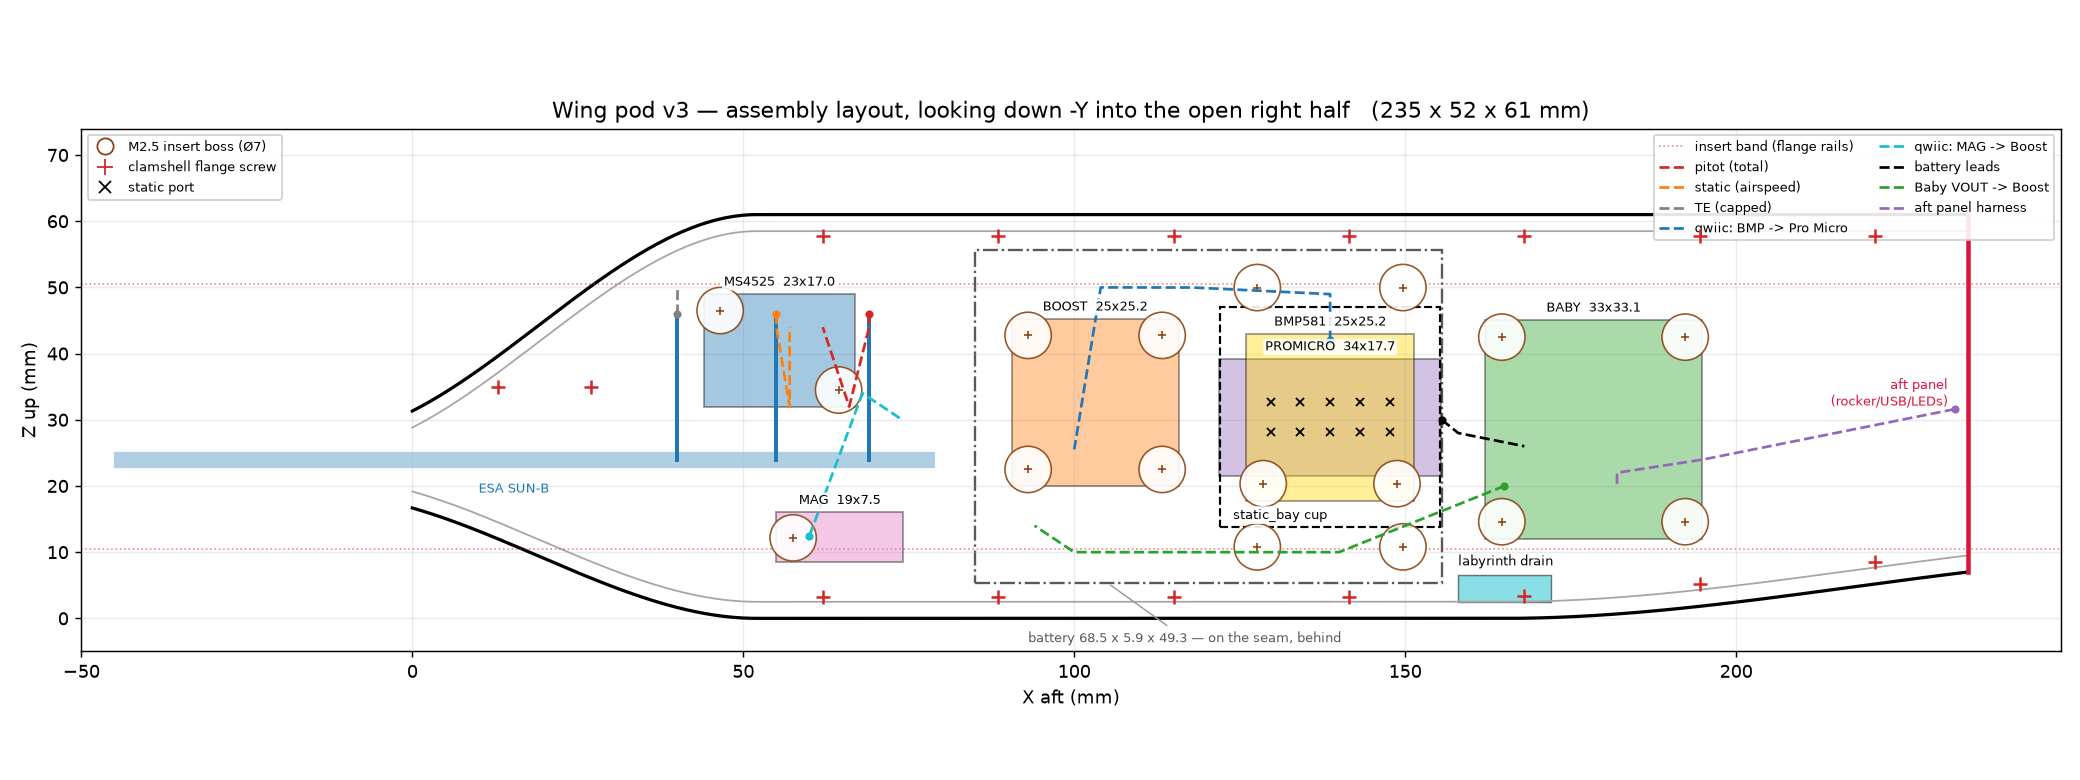
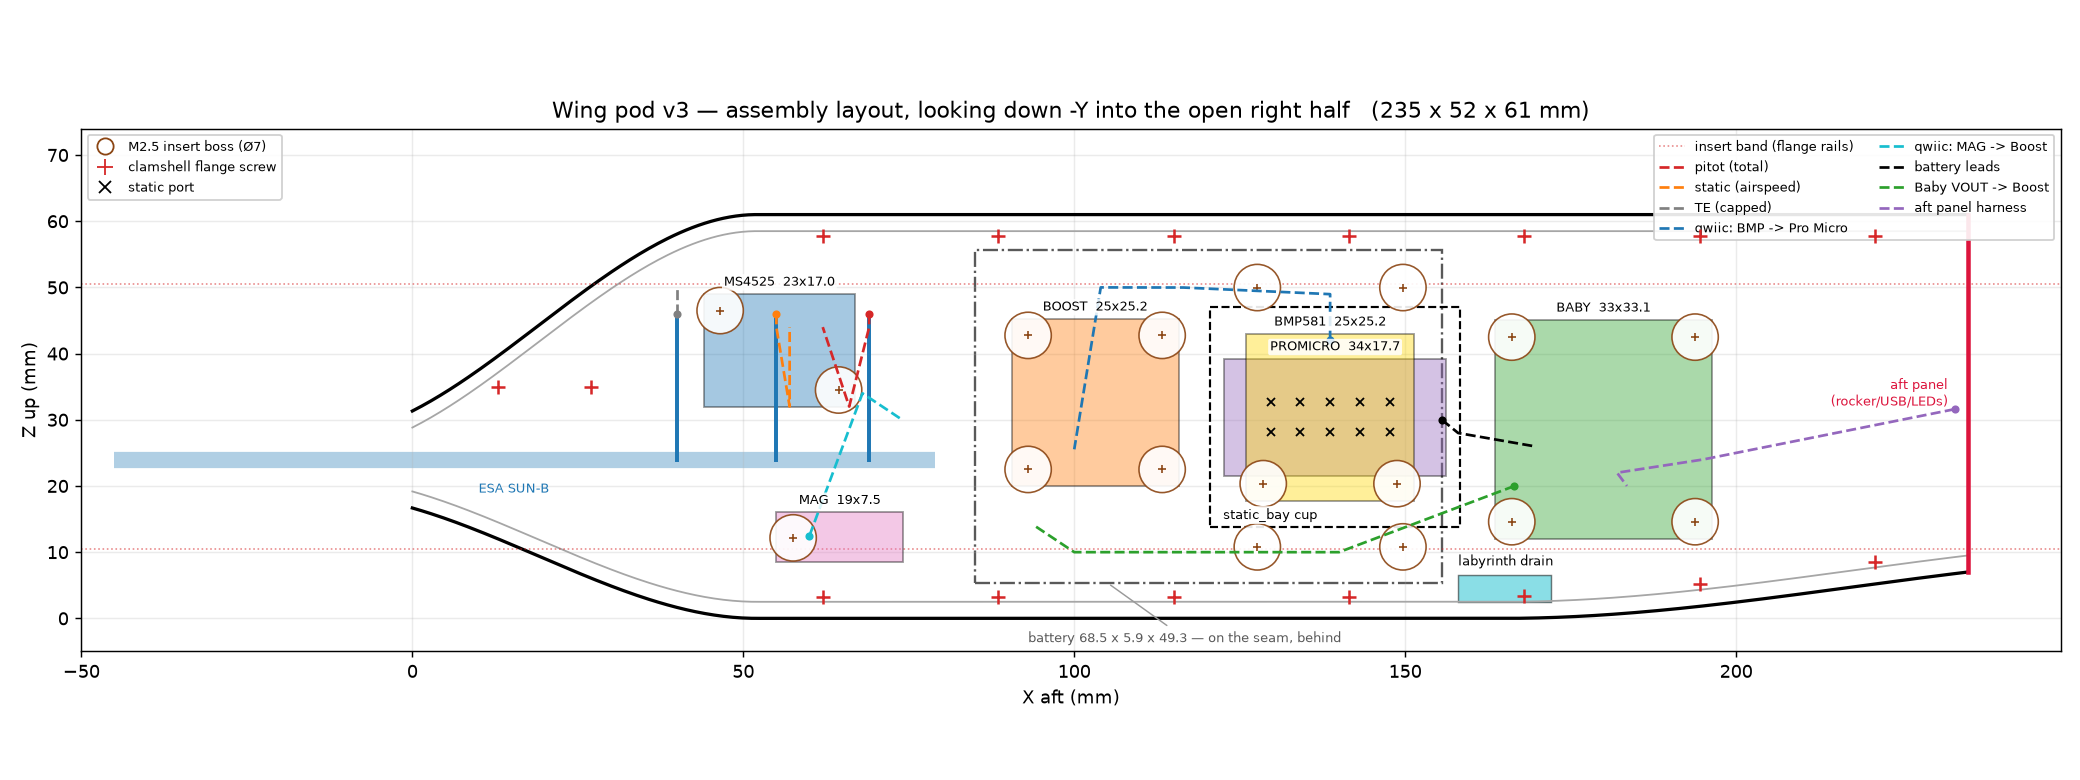
feat(enclosures): locate the Pro Micro in a pocket, clamp it with a short cover
Three covers failed before this because one part was asked to LOCATE the board
and CLAMP it, through three small contact patches.  Three posts pressing down
cannot stop a board sliding: the printed frame let it move 1.5 mm fore/aft and
flip.  Location and clamping are now separate jobs.

The bay carries a pocket.  This needed the cup 1.5 mm longer at each end --
the Pro Micro is 33.51 long against a 33.31 cup, so the board was fractionally
LARGER than its own mount and there was nowhere to put a wall.  That, not the
cover, is why every previous scheme worked around the problem.  End walls take
the fore/aft slip, with a 14 mm notch in the aft one so a thick plug passes;
side ridges only at the fore corners, because the long edges carry soldered
castellated-pad wires needing 2 mm of clearance (C9) and the fore corners are
the only clear PCB on the board (C13).

The cover now only clamps: 39.5 mm instead of 45.5, ZERO aft overhang, no lips.
The ears sit at u 6.0 and 27.5, both inside the board's length, so the 6 mm of
overhang at each end was never structural -- it just made the cover floppy and
fouled thick USB-C plugs.  It is a closed loop now (fore segment, two rails,
aft cross-piece) rather than four cantilevered corners.

Two measurement errors this surfaced, both of which the model believed:

- C5 said the Pro Micro's back face was 0.00.  The wires soldered into the
  holes beside the castellations stand ~1.0 mm proud of it, and `back` was
[…]

diff --git a/enclosures/pod/wing_pod_v3.py b/enclosures/pod/wing_pod_v3.py
@@ -423,12 +423,19 @@ BOOST_X0, BOOST_Z0 = COL_B_X0, 20.0
 COL_B_W = BOOST_L
 
 # --- static bay, with the ESP32 stacked on its inboard face ---------------
-CUP_X0 = 122.0
-BMP_X0, BMP_Z0 = CUP_X0 + CUP_WALL + CUP_CLR, 17.8
+# 1.5 mm longer at each end than the plenum needs, to carry the pocket's end
+# walls.  The Pro Micro is 33.51 long against a 33.31 cup: the board was
+# fractionally LARGER than its own mount, which is why there was never anywhere
+# to put a wall, and why every retention scheme so far worked around that
+# instead of fixing it.  There is 2.2 mm free before the Boost's envelope and
+# 2.7 before the Babysitter's, so this costs no other board anything.
+CUP_END = 1.5
+CUP_X0 = 122.0 - CUP_END
+BMP_X0, BMP_Z0 = CUP_X0 + CUP_END + CUP_WALL + CUP_CLR, 17.8
 # BAY_* is the PLENUM volume (cup interior); CUP_* is the cup's outer shell.
 BAY_X0, BAY_X1 = BMP_X0 - CUP_CLR, BMP_X0 + BMP581_L + CUP_CLR
 BAY_Z0, BAY_Z1 = BMP_Z0 - CUP_CLR, BMP_Z0 + BMP581_W + CUP_CLR
-CUP_X1 = BAY_X1 + CUP_WALL
+CUP_X1 = BAY_X1 + CUP_WALL + 2 * CUP_END
 CUP_Z0, CUP_Z1 = BAY_Z0 - CUP_WALL, BAY_Z1 + CUP_WALL
 # The cup was 16.6 mm deep in Y for a board that needs 5.6, and its glands were
 # cut at the deep end where the BMP581 has nothing -- its two Qwiic connectors
@@ -448,7 +455,11 @@ PM_Z0 = 0.5 * (CUP_Z0 + CUP_Z1) - PM_W / 2
 # 1.0 is enough: the measured back-face height is 0.00, so this is solder-
 # clearance only.  The whole stack (standoff + PCB + components + cover) ends
 # 1.7 mm short of the battery, and every mm here comes straight off that gap.
-PM_STANDOFF = 1.0
+# 2.0, not 1.0.  The PCB is bare underneath but the wires soldered into the
+# holes beside the castellations stand ~1.0 mm proud of it (C5), so a 1.0 mm
+# standoff put the board on its wire stubs instead of its pads.  This must
+# stay clear of b["back"] -- I11.
+PM_STANDOFF = 2.0
 PM_Y = CUP_Y0 - PM_STANDOFF
 # Inner face of the cover's roof: past the tallest component with clearance.
 # pm_cover is an open frame, so there is no roof clearance to set -- only how
@@ -464,20 +475,35 @@ PM_Y = CUP_Y0 - PM_STANDOFF
 PM_HOLD = [
     (0.0, 0.0, 2.0, 2.0, 0.0),                    # fore, lower — bare PCB
     (0.0, 17.70 - 2.0, 2.0, 2.0, 0.0),            # fore, upper — bare PCB
-    (33.51 - 2.0, 8.85 - 2.0, 2.0, 4.0, 3.20),    # aft — on the USB-C shell
+    (33.51 - 2.0, 8.85 - 2.0, 2.0, 4.0, 3.50),    # aft — on the USB-C shell
 ]
-PM_LIP = 1.2              # corner lip, traps the board in u and v
+PM_POCKET_W = 1.5         # end-wall thickness
+PM_POCKET_CLR = 0.25      # per side, board edge to wall
+PM_POCKET_PROUD = 0.8     # wall height above the board's component face
+PM_POCKET_SIDE = 5.0      # fore-corner side ridge length, along u
+PM_USB_NOTCH = 14.0       # aft-wall opening, wide enough for a thick plug
 PM_FRAME_CLR_X = 2.0      # ring inner edge, fore/aft of the board
 PM_FRAME_CLR_Z = 3.0      # ring inner edge, off the long edges (wires exit here)
 PM_FRAME_W = 4.0          # ring width
 PM_FINGER = 5.0           # corner hold-down, square
-PM_BOSS_H = 4.5           # cup boss height, >= INS_DEPTH so an insert fits
+# Boss height sets where the ring plane sits, and the ring must clear the
+# tallest thing it passes over -- which is the USB-C shell, 3.5 mm off the
+# board face, under the aft cross-piece.  At 4.5 the ring's inner face landed
+# 1.5 mm INSIDE the connector: the aft brace's post was buried in the ring's
+# own 2 mm thickness and did nothing, so what actually bore on the shell was
+# the ring itself.  That is what held the cover 1.6 mm off its bosses.
+# 7.8 puts the inner face 1.5 mm clear of the shell, so the brace is a real
+# post again.  Still >= INS_DEPTH, so an insert fits.
+PM_BOSS_H = 7.8
 PM_COVER_CLR = 0.6
 PM_COVER_T = 2.0
 # Outer face of the cover roof; the cup's bosses run out to meet it.
 PM_COVER_Y = PM_Y - PM_PCB - PM_COMP - PM_COVER_CLR - PM_COVER_T
 
-BABY_X0, BABY_Z0 = 162.0, 12.0                     # Babysitter, beside the ESP32
+# 163.5: the cup grew 1.5 mm aft to carry the pocket's end wall, which ate the
+# Babysitter's fore cable clearance by 0.3 mm.  Its aft envelope still ends at
+# 222.4 against a tail rim at 227.
+BABY_X0, BABY_Z0 = 163.5, 12.0                     # Babysitter, beside the ESP32
 
 # Battery: laid down on the seam, clear of the SUN aft bulkhead.
 BATT_X0 = AFT_BH_X1 + 2.5
@@ -937,7 +963,7 @@ BOARD_SPECS: dict[str, dict] = {
                dict(name="vin_vout", edge="face", at=12.63, w=6.0, need=4.0)],
     ),
     "PROMICRO": dict(
-        L=33.51, W=17.70, pcb=0.78, comp=4.4, back=0.0, tray=True,
+        L=33.51, W=17.70, pcb=0.78, comp=4.4, back=1.0, tray=True,
         holes=[],                       # castellated edges, no mounting holes
         edge_clear=2.0,                 # room to solder a castellated pad
         # The board has no holes, so the TRAY carries the fasteners.  Three,
@@ -953,7 +979,7 @@ BOARD_SPECS: dict[str, dict] = {
         # four pads on the static bay's back face and is trapped by pm_cover,
         # whose four screws go into the CUP.
         cover=True,
-        conns=[dict(name="usb_c", edge="aft", at=8.85, w=9.0, need=30.0,
+        conns=[dict(name="usb_c", edge="aft", at=8.85, w=9.0, need=30.0, body_h=3.5,
                     when="service"),
                # Stands UP off the component face 4.4 mm -- it is the
                # tallest feature on the board, which is what C4 records -- and
@@ -2080,6 +2106,38 @@ def build_static_bay_cup() -> cq.Workplane:
     for px, pz, pdx, pdz in pm_support_pads():
         pad = _box(px, CUP_Y0 - PM_STANDOFF, pz, pdx, PM_STANDOFF, pdz)
         body = _union_if_solid(body, pad)
+
+    # --- pocket: this is what LOCATES the Pro Micro ------------------------
+    # Three covers failed before this because one part was asked to clamp the
+    # board AND locate it, through three small contact patches.  Three posts
+    # pressing down cannot stop a board sliding: the printed frame let it move
+    # 1.5 mm fore/aft and flip.  Location belongs to a pocket the board drops
+    # into; the cover then only has to push down, and can be short and stiff.
+    pm = BOARDS["PROMICRO"]
+    px0, px1 = pm["x0"], pm["x0"] + pm["L"]
+    pz0, pz1 = pm["z0"], pm["z0"] + pm["W"]
+    wall_h = PM_STANDOFF + pm["pcb"] + PM_POCKET_PROUD
+    wy = CUP_Y0 - wall_h
+    c = PM_POCKET_CLR
+
+    # End walls take the fore/aft slip, which is the axis that actually moved.
+    for wx0 in (px0 - c - PM_POCKET_W, px1 + c):
+        body = _union_if_solid(body, _box(wx0, wy, pz0 - c - PM_POCKET_W,
+                                          PM_POCKET_W, wall_h,
+                                          (pz1 - pz0) + 2 * (c + PM_POCKET_W)))
+    # ...but the aft wall must let a USB-C plug through, so notch it wide.
+    usb = next(k for k in pm["conns"] if k["name"] == "usb_c")
+    nz = pz0 + usb["at"]
+    body = body.cut(_box(px1, wy - 1.0, nz - PM_USB_NOTCH / 2,
+                         PM_POCKET_W + c + 2.0, wall_h + 2.0, PM_USB_NOTCH))
+
+    # Side ridges at the FORE corners only.  The long edges carry soldered
+    # castellated-pad wires needing 2 mm of clearance (C9), so a continuous
+    # side wall would foul the fillets; the fore corners are the only clear
+    # PCB on the board (C13).
+    for rz0 in (pz0 - c - PM_POCKET_W, pz1 + c):
+        body = _union_if_solid(body, _box(px0, wy, rz0, PM_POCKET_SIDE,
+                                          wall_h, PM_POCKET_W))
     for bx, bz in pm_cover_screws():
         # Stops at the ear's INNER face.  Running it to PM_COVER_Y put the
         # boss and the cover's ear in the same 2 mm of Y at the same x, z and
@@ -2118,57 +2176,44 @@ def build_pm_cover() -> cq.Workplane:
     y_frame = CUP_Y0 - PM_BOSS_H               # underside of the frame
     t = PM_COVER_T
 
-    # Ring: inner edge stands off the board so the edge wires clear it.
-    ix0, ix1 = x0 - PM_FRAME_CLR_X, x1 + PM_FRAME_CLR_X
+    # Ring: a U, not a rectangle.  It reaches out in Z to the ears and stops
+    # dead at the board's aft edge -- nothing of the cover lies aft of the
+    # board, which is what blocked thick USB-C plugs.  It no longer overhangs
+    # in X either: the ears are at u 6.0 and 27.5, both inside the board's
+    # length, so 6 mm of overhang at each end was never structural.  It only
+    # made the cover 45.5 mm long for a 33.5 mm board, and floppy along it.
+    #
+    # No lips either.  Locating the board is the pocket's job now.
+    ix0 = x0 - PM_FRAME_CLR_X
     iz0, iz1 = z0 - PM_FRAME_CLR_Z, z1 + PM_FRAME_CLR_Z
-    ox0, ox1 = ix0 - PM_FRAME_W, ix1 + PM_FRAME_W
+    ox0 = ix0 - PM_FRAME_W
     oz0, oz1 = iz0 - PM_FRAME_W, iz1 + PM_FRAME_W
 
-    body = _box(ox0, y_frame - t, oz0, ox1 - ox0, t, oz1 - oz0)
+    body = _box(ox0, y_frame - t, oz0, x1 - ox0, t, oz1 - oz0)
     body = body.cut(_box(ix0, y_frame - t - 1.0, iz0,
-                         ix1 - ix0, t + 2.0, iz1 - iz0))
+                         (x1 - ix0) + 1.0, t + 2.0, iz1 - iz0))
 
     # Hold-downs: a TAB at the ring plane reaching in over the board, then a
     # POST down onto whatever that hold-down bears on.  Stepping it keeps the
     # tab clear of the cup's bosses, whose tops are the ring's underside.
     for u0, v0, du, dv, rests in PM_HOLD:
         hx, hz = x0 + u0, z0 + v0
-        # tab spans from the ring's inner edge to the far side of the post
-        # Overlapping the ring by PM_FRAME_W, not stopping on its inner face:
-        # a tab that merely touches leaves a separate solid after the union.
         if u0 < b["L"] / 2:
-            tx0 = x0 - PM_FRAME_CLR_X - PM_FRAME_W
-            tlen = PM_FRAME_CLR_X + PM_FRAME_W + u0 + du
+            # fore pair: reach back to the fore ring segment
+            tx0, tlen = ox0, (hx + du) - ox0
+            if v0 < b["W"] / 2:
+                tz0, tlen_z = oz0, (hz + dv) - oz0
+            else:
+                tz0, tlen_z = hz, oz1 - hz
         else:
-            tx0, tlen = hx, (x1 + PM_FRAME_CLR_X + PM_FRAME_W) - hx
-        tz0 = min(hz, z0 - PM_FRAME_CLR_Z) if v0 < 1.0 else hz
-        tlen_z = max(dv, (hz + dv) - tz0)
+            # aft: a cross-piece between the two side rails.  It cannot hang
+            # off an aft ring segment because there isn't one -- that is what
+            # keeps the cover clear of a plugged USB-C.
+            tx0, tlen = hx, x1 - hx
+            tz0, tlen_z = oz0, oz1 - oz0
         body = body.union(_box(tx0, y_frame - t, tz0, tlen, t, tlen_z))
         body = body.union(_box(hx, y_frame - t, hz, du,
                                (y_face - rests) - (y_frame - t), dv))
-
-    # Corner lips at the fore end: a bracket outside the board that traps it in
-    # u and v.  Only at that corner -- the long edges must stay clear for the
-    # castellated-pad wires, and the aft end cannot take one because the USB-C
-    # protrudes 1.3 mm past the edge and has to stay pluggable.
-    #
-    # Both legs run back to the ring's inner edge.  Sized to the board instead,
-    # the v-leg reached neither the ring nor the tab and came away as a loose
-    # 29 mm^3 sliver.
-    lip_y1 = board_y(b) + 0.3
-    lip_h = lip_y1 - (y_frame - t)
-    for u0, v0, du, dv, _r in PM_HOLD[:2]:
-        low = v0 < b["W"] / 2
-        # leg along u: blocks the board sliding fore
-        lz0 = (z0 + v0 - PM_LIP) if low else (z0 + v0)
-        body = body.union(_box(x0 - PM_LIP, y_frame - t, lz0,
-                               PM_LIP, lip_h, dv + PM_LIP))
-        # leg along v: blocks it sliding sideways, run out to the ring
-        vz0 = (z0 - PM_FRAME_CLR_Z) if low else (z0 + b["W"])
-        # Stops at the hold-down's far face: run 1 mm longer and it clips the
-        # cup's boss, whose near edge is at u 2.5.
-        body = body.union(_box(x0 - PM_LIP, y_frame - t, vz0,
-                               PM_LIP + du, lip_h, PM_FRAME_CLR_Z))
 
     # Ears + clearance holes, in the ring.
     for cx, cz in pm_cover_screws():

diff --git a/enclosures/pod/validate_pod_v3_checks.py b/enclosures/pod/validate_pod_v3_checks.py
@@ -433,6 +433,73 @@ def check_open_bay(r, pod, left, right) -> None:
                 r.ok(f"I4 {what} clear in {name} ({v:.1f} mm^3)")
 
 
+def check_cover_clears_components(r, pod) -> None:
+    """I12 — pm_cover must not intersect anything on the board it covers.
+
+    I10 asks whether a hold-down LANDS on a connector.  This asks the different
+    question of whether the cover's own body runs THROUGH one, and it is the
+    question that was missing: the ring plane is set by the boss height, chosen
+    for insert depth, with no reference to the tallest thing the cover passes
+    over.  The aft cross-piece sat 1.5 mm inside the USB-C shell -- the brace's
+    post was buried in the ring's own thickness and did nothing, so the ring
+    itself bore on the connector and held the whole cover off its bosses.
+
+    A hold-down that bears on a connector touches its top FACE, which is zero
+    volume, so any positive intersection is a fault however it arises.
+    """
+    import cadquery as cq
+    b = pod.BOARDS["PROMICRO"]
+    y_face = pod.board_y(b) - b["pcb"]
+    cover = pod.build_pm_cover().val()
+    hits = []
+    for c in b["conns"]:
+        h = c.get("body_h")
+        if not h:
+            continue
+        if c["edge"] == "aft":
+            x0, dx = b["x0"] + b["L"] - 6.0, 6.0 + 1.3
+            z0, dz = b["z0"] + c["at"] - c["w"] / 2, c["w"]
+        elif c["edge"] == "fore":
+            x0, dx = b["x0"] - 1.3, 7.3
+            z0, dz = b["z0"] + c["at"] - c["w"] / 2, c["w"]
+        else:
+            cu, cv = c["at"] if isinstance(c["at"], tuple) else (c["at"], b["W"] / 2)
+            x0, dx = b["x0"] + cu - c["w"] / 2, c["w"]
+            z0, dz = b["z0"] + cv - c["w"] / 2, c["w"]
+        box = (cq.Workplane("XY").transformed(offset=(x0, y_face - h, z0))
+               .box(dx, h, dz, centered=(False, False, False)).val())
+        v = cover.intersect(box).Volume()
+        if v > 0.5:
+            hits.append(f"{c['name']} by {v:.1f} mm^3")
+    if hits:
+        r.fail("I12 pm_cover runs through: " + "; ".join(hits))
+    else:
+        r.ok("I12 pm_cover clears every connector body on the Pro Micro")
+
+
+def check_backface_clearance(r, pod) -> None:
+    """I11 — a board must sit on its standoffs, not on its own back face.
+
+    `back` (the tallest feature on the underside) was recorded for every board
+    and used for exactly one thing: growing the keepout outboard.  Nothing ever
+    compared it against the standoff the board rests on.  The Pro Micro's back
+    was logged as 0.00 and is really ~1.0 -- wires soldered into the holes
+    beside the castellations -- against a 1.0 mm standoff, so the board would
+    have rocked on its wire stubs with its pads never touching.
+    """
+    bad = []
+    for name, b in pod.BOARDS.items():
+        stand = pod.PM_STANDOFF if b.get("cover") else pod.STANDOFF_H
+        back = b.get("back", 0.0)
+        if back + 0.4 > stand:
+            bad.append(f"{name}: back {back:.2f} vs {stand:.2f} mm standoff")
+    if bad:
+        r.fail("I11 board would rest on its own back-face features: "
+               + "; ".join(bad))
+    else:
+        r.ok(f"I11 all {len(pod.BOARDS)} boards clear their back-face features")
+
+
 def check_holddown_footprints(r, pod) -> None:
     """I10 — a hold-down may not land on a connector or component unless the
     board model says it bears on one.

diff --git a/enclosures/pod/validate_pod.py b/enclosures/pod/validate_pod.py
@@ -244,6 +244,8 @@ def check_geometry(r: CheckResult) -> None:
     g.check_parts_against_each_other(r, pod)
     g.check_print_pose(r, pod)
     g.check_holddown_footprints(r, pod)
+    g.check_backface_clearance(r, pod)
+    g.check_cover_clears_components(r, pod)
     g.check_aero(r, pod)
     g.check_flats(r, pod)
 

diff --git a/enclosures/pod/BOARD_CALIPERS.md b/enclosures/pod/BOARD_CALIPERS.md
@@ -149,12 +149,13 @@ mounting holes, which is why it needs `pm_cover.stl` to trap it.
 | C8  | How far the USB-C **plug** protrudes past the board edge     | 1.30       |
 | C9  | Clearance needed off a long edge to solder a castellated pad | 2.00       |
 | C10 | Must Reset/Boot be reachable after assembly? (y/n)           | n          |
+| C14 | USB-C shell height off the board face (re-measured 2026-08-29; was 3.20) | 3.50 |
 
 Connectors:
 
 | Name       | Edge | `at` / (u,v)  | Body width | Body height | Cable room |
 |------------|------|---------------|------------|-------------|------------|
-| USB-C      | aft  | 8.85          | 9.00       | 3.20        | 30.00      |
+| USB-C      | aft  | 8.85          | 9.00       | 3.50        | 30.00      |
 | Qwiic      | face | (18.51, 8.85) | 2.60       | 4.40        | 3.60       |
 | edge wires | face | both long edges | —        | —           | see C11    |
 
@@ -187,6 +188,16 @@ Connectors:
 > bare PCB, else a connector's body height), and the check tests that against
 > the connector table. Fed the old four-corner geometry it fails both aft posts
 > by name.
+>
+> **A connector's height constrains the COVER, not just the hold-down.** I10
+> asks whether a hold-down lands on a connector. It does not ask whether the
+> cover's own body runs through one, and that is the question that was missing:
+> the ring plane is set by the boss height (chosen for insert depth) with no
+> reference to the tallest thing the cover passes over. The aft cross-piece sat
+> 1.5 mm inside the USB-C shell, so the brace's post was buried in the ring's
+> own thickness and did nothing — the ring itself bore on the connector and
+> held the whole cover 1.6 mm off its bosses. **I12** now intersects the cover
+> against every connector body; fed the old boss height it reports 32 mm³.
 >
 > **The deeper lesson is that this board has no usable roof at all.** Between
 > the Qwiic in the middle of the face and wires off both long edges, any
